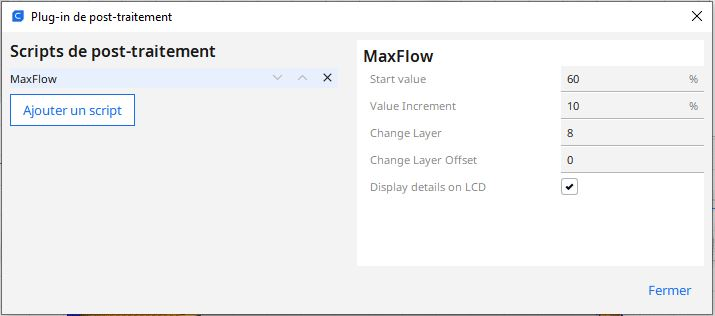
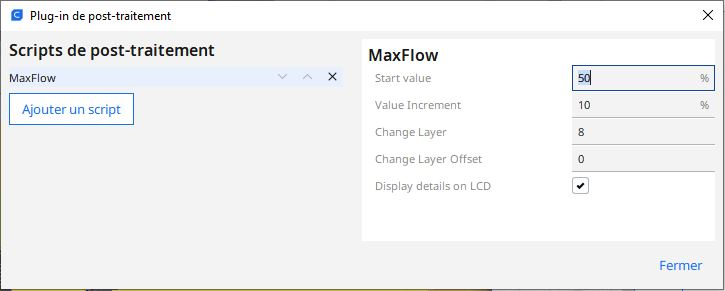
update script defaut value

diff --git a/scripts/MaxFlow.py b/scripts/MaxFlow.py
@@ -37,7 +37,7 @@ class MaxFlow(Script):
                     "description": "The percentage start value of the Test.",
                     "type": "int",
                     "unit": "%",
-                    "default_value": 60
+                    "default_value": 50
                 },
                 "valueChange":
                 {
